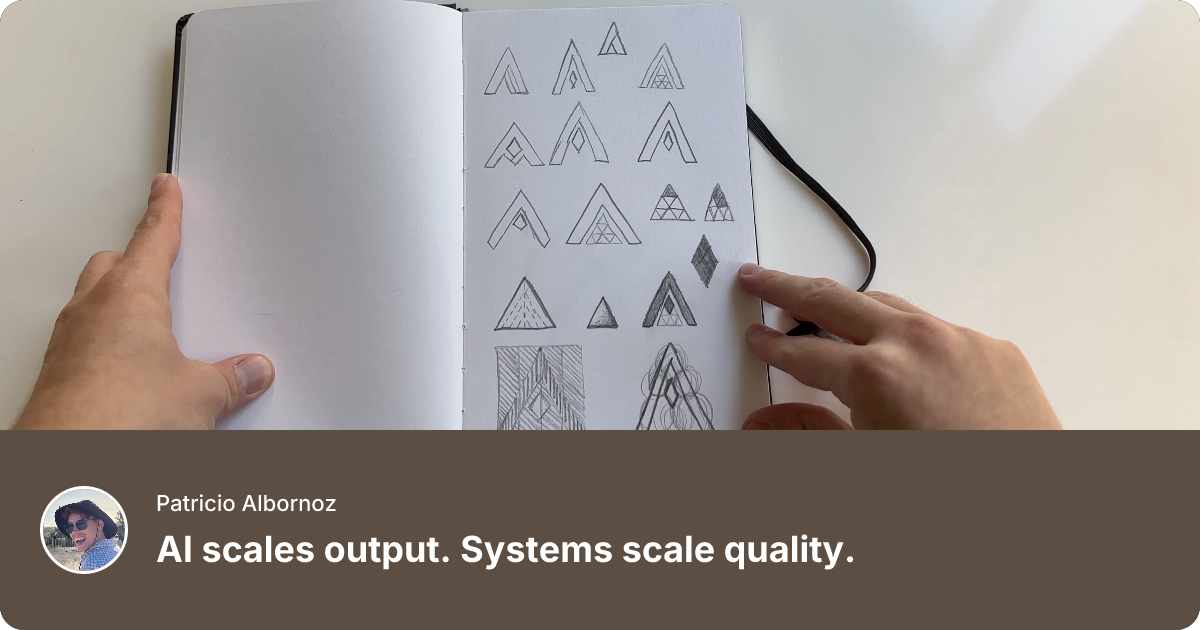
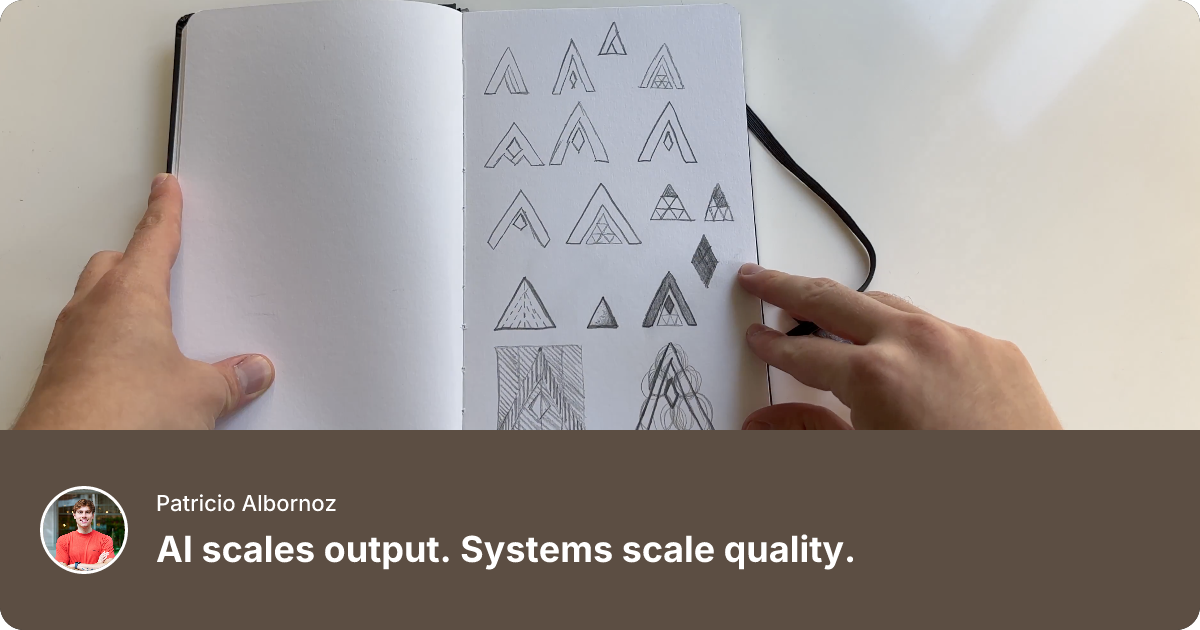
fix: improve article metadata
- Updated lastmod timestamps in sitemap.xml for all URLs to reflect the correct time.
- Modified excerpt in the Spanish article to enhance clarity and readability.
- Updated Open Graph images for the article "AI scales output. Systems scale quality" to ensure proper display on social media.

Changed region(s): [[0.0308, 0.754, 0.1233, 0.9048]]

diff --git a/src/styles.css b/src/styles.css
@@ -2,6 +2,7 @@
 @import "tailwindcss";
 
 :root {
+  --site-ui-scale: 0.85;
   color-scheme: light;
   --bg: oklch(0.972 0.014 84);
   --bg-soft: oklch(0.958 0.018 84);
@@ -22,6 +23,7 @@
 html {
   scroll-behavior: smooth;
   background: var(--bg);
+  zoom: var(--site-ui-scale);
 }
 
 body {

diff --git a/src/content/articles/ai-scales-output-systems-scale-quality.es.md b/src/content/articles/ai-scales-output-systems-scale-quality.es.md
@@ -2,7 +2,7 @@
 title: La AI escala el output. Los sistemas escalan la calidad.
 date: 2026-04-25
 readTime: 10 min read
-excerpt: Cómo un proceso invisible, un chiste llamado “la pateada” y un design system fallido nos llevaron a Blacklight — y por qué los sistemas son más importantes que nunca en la era de la AI.
+excerpt: Cómo un proceso invisible, un chiste llamado “la pateada” y un design system fallido nos llevaron a Blacklight; y por qué los sistemas son más importantes que nunca en la era de la AI.
 coverImage: /ai-scales-output-systems-scale-quality.png
 coverAlt: AI scales output. Systems scale quality.
 published: true
